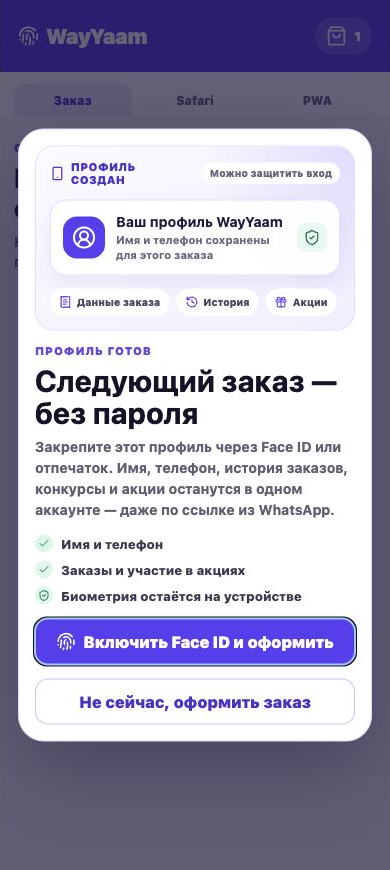
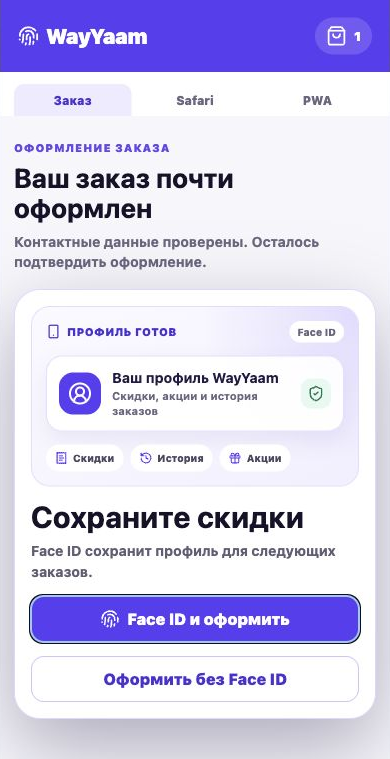
Shorten client biometric guidance

diff --git a/src/features/client-pairing/ClientPairing.tsx b/src/features/client-pairing/ClientPairing.tsx
@@ -62,22 +62,22 @@ function ClientPasskeyProfilePreview({
 }) {
   const content = {
     checkout: {
-      badge: 'Профиль создан',
+      badge: 'Профиль готов',
       title: 'Ваш профиль WayYaam',
-      description: 'Имя и телефон сохранены для этого заказа',
-      status: 'Можно защитить вход'
+      description: 'Скидки, акции и история заказов',
+      status: 'Face ID'
     },
     safari: {
-      badge: 'Ссылка из мессенджера',
-      title: 'Вернуть ваш профиль',
-      description: 'Закажите с тем же именем и номером телефона',
-      status: 'Нужен вход'
+      badge: 'Ссылка открыта',
+      title: 'Ваш профиль WayYaam',
+      description: 'Скидки, акции и история заказов',
+      status: 'Войти'
     },
     pwa: {
       badge: 'Приложение WayYaam',
       title: 'Ваш профиль сохранён',
-      description: 'Подтвердите, что это вы, и продолжайте',
-      status: 'Сессия завершилась'
+      description: 'Скидки, акции и история заказов',
+      status: 'Войти'
     }
   }[context];
 
@@ -101,7 +101,7 @@ function ClientPasskeyProfilePreview({
         </span>
       </div>
       <div className="client-passkey-profile-preview__features" aria-label="Данные профиля">
-        <span><ReceiptText aria-hidden="true" /> Данные заказа</span>
+        <span><ReceiptText aria-hidden="true" /> Скидки</span>
         <span><History aria-hidden="true" /> История</span>
         <span><Gift aria-hidden="true" /> Акции</span>
       </div>
@@ -147,7 +147,7 @@ export function ClientPasskeyCard({
         <p>
           {enabled
             ? 'Теперь этот профиль можно открыть через Face ID и в приложении WayYaam, и в Safari.'
-            : 'Подключите Face ID один раз. После этого ссылки из WhatsApp откроются с вашим профилем.'}
+            : 'Подключите Face ID, чтобы сохранять скидки, заказы и вход по ссылкам.'}
         </p>
       </div>
       <button className="client-pairing-primary" type="button" onClick={() => void enable()} disabled={isRegistering || enabled}>
@@ -204,18 +204,9 @@ export function ClientPasskeyRegistrationDialog({
       >
         <ClientPasskeyProfilePreview context="checkout" />
         <div className="client-passkey-dialog__copy">
-          <span className="client-passkey-eyebrow">Профиль готов</span>
-          <h2 id="client-passkey-checkout-title">Следующий заказ — без пароля</h2>
-          <p>
-            Закрепите этот профиль через Face ID или отпечаток. Имя, телефон, история заказов,
-            конкурсы и акции останутся в одном аккаунте — даже по ссылке из WhatsApp.
-          </p>
+          <h2 id="client-passkey-checkout-title">Сохраните скидки</h2>
+          <p>Face ID сохранит профиль для следующих заказов.</p>
         </div>
-        <ul className="client-passkey-benefits" aria-label="Что сохранится в профиле">
-          <li><Check aria-hidden="true" /> Имя и телефон</li>
-          <li><Check aria-hidden="true" /> Заказы и участие в акциях</li>
-          <li><ShieldCheck aria-hidden="true" /> Биометрия остаётся на устройстве</li>
-        </ul>
         {error && (
           <small className="client-pairing-error" role="alert">
             {error} Корзина и заказ сохранены.
@@ -229,7 +220,7 @@ export function ClientPasskeyRegistrationDialog({
           autoFocus
         >
           {isRegistering ? <LoaderCircle className="is-spinning" aria-hidden="true" /> : <Fingerprint aria-hidden="true" />}
-          {isRegistering ? 'Подтвердите на устройстве…' : 'Включить Face ID и оформить'}
+          {isRegistering ? 'Подтвердите на устройстве…' : 'Face ID и оформить'}
         </button>
         <button
           className="client-pairing-secondary"
@@ -237,7 +228,7 @@ export function ClientPasskeyRegistrationDialog({
           onClick={() => onContinue(false)}
           disabled={isRegistering}
         >
-          Не сейчас, оформить заказ
+          Оформить без Face ID
         </button>
       </section>
     </div>
@@ -300,18 +291,17 @@ export function ClientPasskeyReturnPanel({
     <section className="client-passkey-return" aria-labelledby="client-passkey-return-title">
       <ClientPasskeyProfilePreview context="pwa" />
       <div className="client-passkey-return__copy">
-        <span className="client-passkey-eyebrow">С возвращением</span>
-        <h3 id="client-passkey-return-title">Продолжите в своём профиле</h3>
-        <p>Подтвердите Face ID или отпечаток — пароль вводить не нужно.</p>
+        <h3 id="client-passkey-return-title">Войдите в профиль</h3>
+        <p>Все скидки, акции и заказы уже сохранены.</p>
       </div>
       <ClientPasskeySignInButton
         signIn={signIn}
         supported={supported}
         onSignedIn={onSignedIn}
-        label="Продолжить через Face ID"
+        label="Войти по Face ID"
         pendingLabel="Подтвердите на устройстве…"
       />
-      <small className="client-passkey-return__hint">Не вы? Ниже можно войти с другим номером и паролем.</small>
+      <small className="client-passkey-return__hint">Или войдите по номеру и паролю.</small>
     </section>
   );
 }
@@ -463,23 +453,15 @@ export function ClientBrowserPairingBanner({
       </button>
       <ClientPasskeyProfilePreview context="safari" />
       <div className="client-browser-pairing__copy">
-        <span className="client-passkey-eyebrow">Ссылка открылась в Safari</span>
-        <strong>Откройте свой профиль WayYaam</strong>
-        <p>
-          Face ID вернёт имя, телефон и историю заказов. Участие в конкурсах и акциях останется
-          в том же профиле.
-        </p>
+        <span className="client-passkey-eyebrow">Ваши скидки здесь</span>
+        <strong>Войдите в профиль</strong>
+        <p>Face ID вернёт акции, скидки и данные для заказа.</p>
       </div>
-
-      <ul className="client-passkey-benefits client-browser-pairing__benefits">
-        <li><Check aria-hidden="true" /> Данные сразу подставятся в заказ</li>
-        <li><Check aria-hidden="true" /> Ничего не потеряется и не создастся новый профиль</li>
-      </ul>
 
       {passkeySupported && (
         <button className="client-pairing-primary" type="button" onClick={() => void signIn()} disabled={isPasskeySigningIn}>
           {isPasskeySigningIn ? <LoaderCircle className="is-spinning" aria-hidden="true" /> : <Fingerprint aria-hidden="true" />}
-          {isPasskeySigningIn ? 'Подтвердите на устройстве…' : 'Открыть мой профиль по Face ID'}
+          {isPasskeySigningIn ? 'Подтвердите на устройстве…' : 'Войти по Face ID'}
         </button>
       )}
 
@@ -505,12 +487,12 @@ export function ClientBrowserPairingBanner({
       ) : (
         <button className="client-pairing-secondary" type="button" onClick={() => setIsOpen(true)}>
           <Link2 aria-hidden="true" />
-          Другой способ входа
+          Другой способ
         </button>
       )}
 
       <details className="client-browser-pairing__help">
-        <summary>Как открыть установленный WayYaam</summary>
+        <summary>Открыть приложение WayYaam</summary>
         <p>Закройте браузер и нажмите значок WayYaam на экране «Домой». iPhone не позволяет сайту надёжно открыть этот значок автоматически.</p>
       </details>
       {message && <small className="client-pairing-success" role="status">{message}</small>}

diff --git a/tests/browser/client-browser-pairing.test.tsx b/tests/browser/client-browser-pairing.test.tsx
@@ -20,10 +20,10 @@ test('offers Face ID after the first checkout account is ready and then continue
     />
   );
 
-  await expect.element(screen.getByText('Следующий заказ — без пароля')).toBeVisible();
+  await expect.element(screen.getByText('Сохраните скидки')).toBeVisible();
   await expect.element(screen.getByRole('group', { name: 'Ваш профиль WayYaam' })).toBeVisible();
-  await expect.element(screen.getByText('Имя и телефон сохранены для этого заказа')).toBeVisible();
-  await screen.getByRole('button', { name: 'Включить Face ID и оформить' }).click();
+  await expect.element(screen.getByText('Скидки, акции и история заказов')).toBeVisible();
+  await screen.getByRole('button', { name: 'Face ID и оформить' }).click();
 
   expect(registered).toBe(1);
   expect(continued).toBe(true);
@@ -38,7 +38,7 @@ test('keeps checkout available when the client skips biometric setup', async () 
     />
   );
 
-  await screen.getByRole('button', { name: 'Не сейчас, оформить заказ' }).click();
+  await screen.getByRole('button', { name: 'Оформить без Face ID' }).click();
   expect(continued).toBe(false);
 });
 
@@ -113,7 +113,7 @@ test('redeems the PWA code in Safari and confirms checkout profile autofill', as
     />
   );
 
-  await screen.getByRole('button', { name: 'Другой способ входа' }).click();
+  await screen.getByRole('button', { name: 'Другой способ' }).click();
   await screen.getByLabelText('Код из PWA').fill('a1b2-c3d4-e5f6');
   await screen.getByRole('button', { name: 'Подтвердить' }).click();
 
@@ -149,10 +149,10 @@ test('offers Face ID first when a WhatsApp link opens in Safari', async () => {
     />
   );
 
-  await expect.element(screen.getByText('Откройте свой профиль WayYaam')).toBeVisible();
-  await expect.element(screen.getByRole('group', { name: 'Вернуть ваш профиль' })).toBeVisible();
-  await expect.element(screen.getByText('Закажите с тем же именем и номером телефона')).toBeVisible();
-  await screen.getByRole('button', { name: 'Открыть мой профиль по Face ID' }).click();
+  await expect.element(screen.getByText('Войдите в профиль')).toBeVisible();
+  await expect.element(screen.getByRole('group', { name: 'Ваш профиль WayYaam' })).toBeVisible();
+  await expect.element(screen.getByText('Скидки, акции и история заказов')).toBeVisible();
+  await screen.getByRole('button', { name: 'Войти по Face ID' }).click();
   await expect.element(screen.getByText('Вы вошли как Адам. Имя и телефон будут подставлены в заказ.')).toBeVisible();
   expect(reloads).toBe(0);
 });
@@ -172,8 +172,8 @@ test('offers a returning installed PWA client a clear biometric continuation pan
     />
   );
 
-  await expect.element(screen.getByText('Продолжите в своём профиле')).toBeVisible();
-  await expect.element(screen.getByText('Не вы? Ниже можно войти с другим номером и паролем.')).toBeVisible();
-  await screen.getByRole('button', { name: 'Продолжить через Face ID' }).click();
+  await expect.element(screen.getByText('Войдите в профиль')).toBeVisible();
+  await expect.element(screen.getByText('Или войдите по номеру и паролю.')).toBeVisible();
+  await screen.getByRole('button', { name: 'Войти по Face ID' }).click();
   expect(signedInName).toBe('Адам');
 });

diff --git a/src/main.tsx b/src/main.tsx
@@ -49,6 +49,7 @@ const ClientPasskeyPreview = import.meta.env.DEV
         default: module.ClientPasskeyPreview
       })))
   : null;
+const passkeyPreviewIsActive = import.meta.env.DEV && window.location.hash.startsWith('#/__passkey-preview/');
 
 const restoreGitHubPagesRedirect = () => {
   try {
@@ -99,7 +100,7 @@ ReactDOM.createRoot(document.getElementById('root') as HTMLElement).render(
             <Route path="/:slug/*" element={<RestaurantPublicRoute />} />
             <Route path="/:slug" element={<RestaurantPublicRoute />} />
           </Routes>
-          <LegalSurface />
+          {!passkeyPreviewIsActive && <LegalSurface />}
         </Suspense>
       </HashRouter>
     </QueryClientProvider>

diff --git a/src/features/client-pairing/client-pairing.css b/src/features/client-pairing/client-pairing.css
@@ -564,8 +564,17 @@
 }
 
 .client-passkey-preview-page .client-passkey-dialog-backdrop {
-  position: absolute;
+  position: static;
+  grid-column: 1 / -1;
+  padding: 0;
+  overflow: visible;
+  background: transparent;
   backdrop-filter: none;
+}
+
+.client-passkey-preview-page .client-passkey-dialog {
+  width: 100%;
+  margin: 0;
 }
 
 .client-passkey-preview-page__header {

diff --git a/docs/client-passkey-guidance-spec.md b/docs/client-passkey-guidance-spec.md
@@ -8,9 +8,9 @@ Help a client understand why WayYaam asks for Face ID or a fingerprint, while ke
 
 | Scenario | Trigger | Primary message | Primary action | Fallback |
 | --- | --- | --- | --- | --- |
-| First checkout | A client enters a password, successfully creates or restores an account, and the device supports Passkeys | Save this profile so future restaurant links open with the same name, phone, history, contests and promotions | `Включить Face ID и оформить` | `Не сейчас, оформить заказ` |
-| Restaurant link in Safari | A mobile external browser has no client session | Open the existing profile instead of ordering as a new client | `Открыть мой профиль по Face ID` | Password login or the legacy one-time pairing code |
-| Returning installed PWA | The installed PWA no longer has a client session | Continue in the familiar profile without entering the password again | `Продолжить через Face ID` | Regular password login |
+| First checkout | A client enters a password, successfully creates or restores an account, and the device supports Passkeys | Keep discounts, promotions and orders in one profile | `Face ID и оформить` | `Оформить без Face ID` |
+| Restaurant link in Safari | A mobile external browser has no client session | Restore discounts, promotions and checkout data | `Войти по Face ID` | Password login or the legacy one-time pairing code |
+| Returning installed PWA | The installed PWA no longer has a client session | Return to saved benefits and orders | `Войти по Face ID` | Regular password login |
 
 On devices without Face ID the operating system may show Touch ID, an Android fingerprint, device PIN or another Passkey confirmation. Product copy uses `Face ID или отпечаток` where space allows.
 
